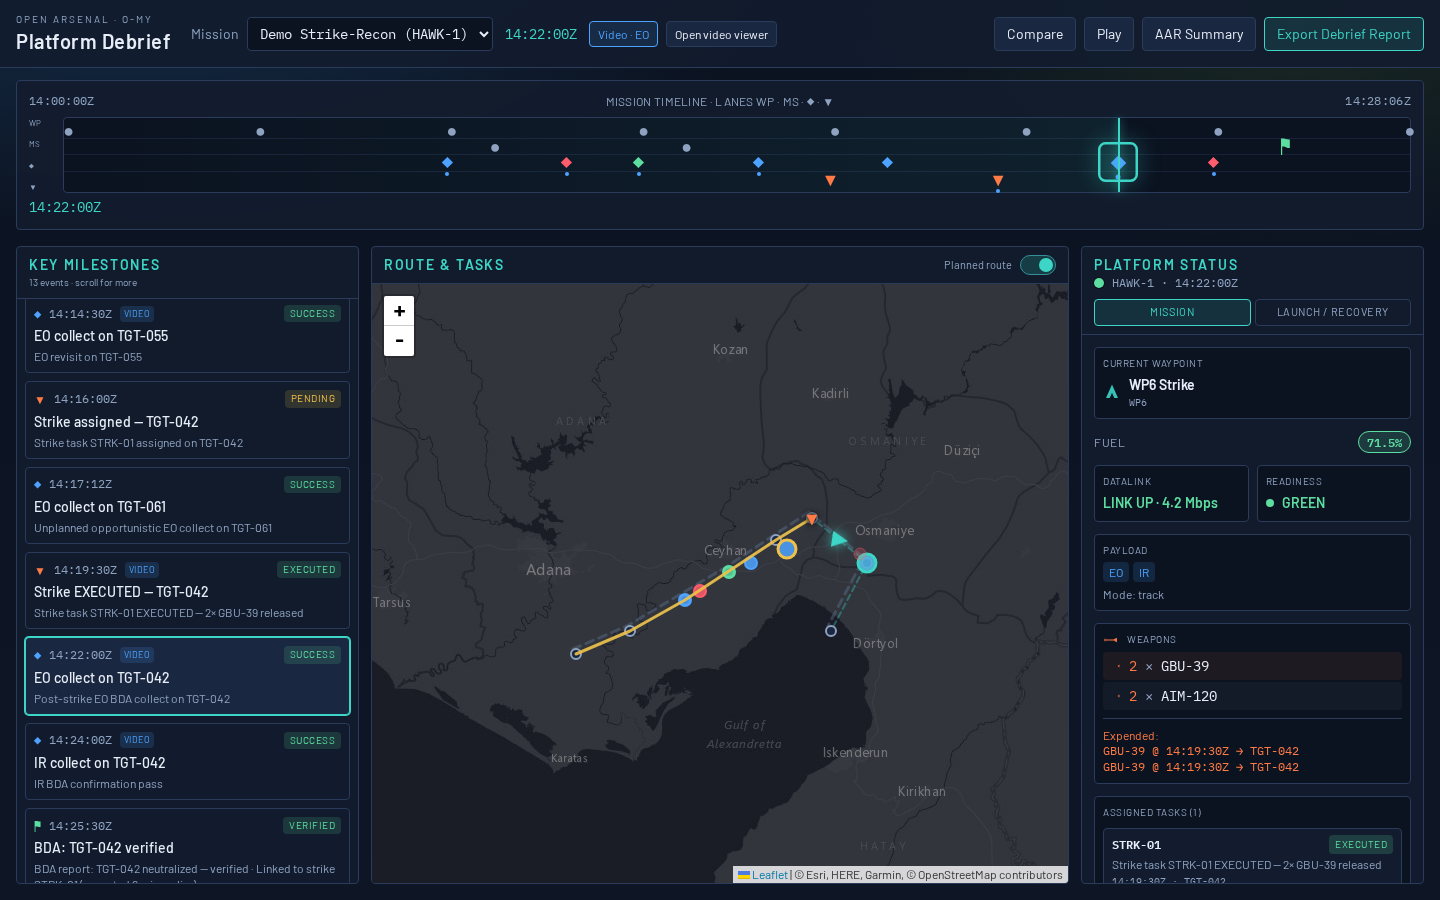
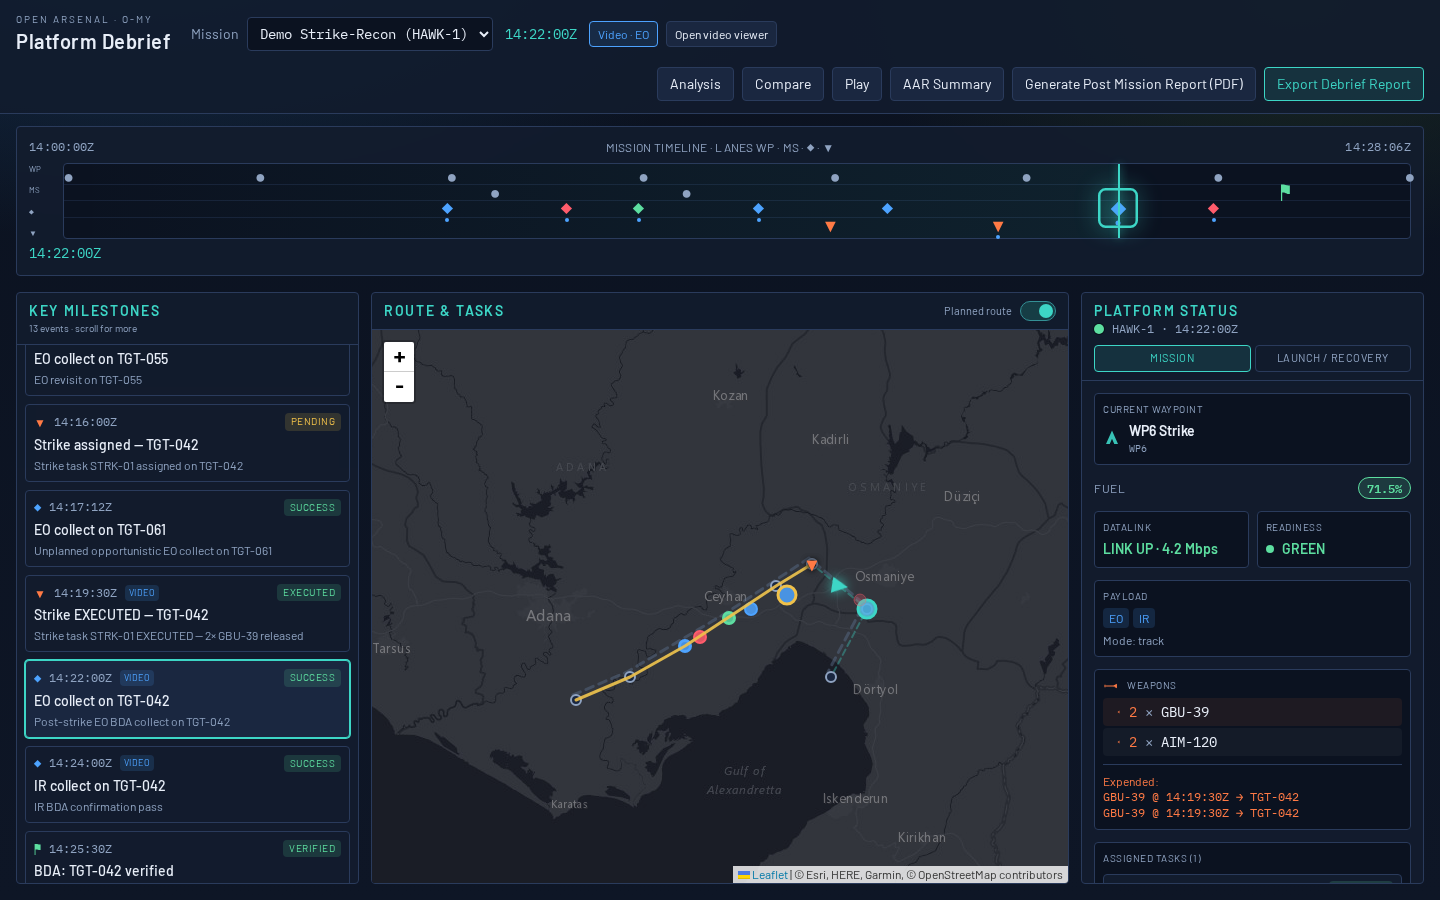
Verify analysis/PMR with screenshots; fix capture + FOV y-scale
Capture Analysis and three-page PMR shots (12–16), resolve Playwright
from frontend/, default DEMO_URL to :8920, and fix footprint y fallback.

diff --git a/frontend/src/lib/SensorFovPlot.svelte b/frontend/src/lib/SensorFovPlot.svelte
@@ -22,8 +22,11 @@
       .attr('height', height)
 
     const xKey = (d) => d.slant_range_nm ?? d.ground_range_nm ?? 0
-    const yKey = (d) =>
-      d.footprint_diameter_m ?? (d.footprint_area_km2 ?? 0) * 1000 ?? (d.cone_angle_deg ?? 0) * 40
+    const yKey = (d) => {
+      if (d.footprint_diameter_m != null) return d.footprint_diameter_m
+      if (d.footprint_area_km2 != null) return d.footprint_area_km2 * 1000
+      return (d.cone_angle_deg ?? 0) * 40
+    }
 
     const x = d3.scaleLinear().domain(d3.extent(points, xKey)).nice().range([0, innerW])
     const y = d3.scaleLinear().domain(d3.extent(points, yKey)).nice().range([innerH, 0])

diff --git a/openspec/changes/add-sensor-plots-and-pdf-report/verification.md b/openspec/changes/add-sensor-plots-and-pdf-report/verification.md
@@ -2,9 +2,9 @@
 
 | Scenario (Gherkin / spec) | Evidence |
 | --- | --- |
-| Sensor FOV vs range plot in UI | `SensorFovPlot.svelte`; manual Analysis mode on demo mission |
-| Weapons release vs LAR | `WeaponsLarPlot.svelte`; `/api/analysis/weapons-lar` test |
-| Sensor state multi-panel | `SensorStatePanels.svelte`; demo `sensorStatus` rows |
-| PMR 3-page structure | `/api/report/pmr` HTML; print preview Page 1–3 headings |
-| Summary rollups | `test_summary` + analysis fields in response |
-| Regression | `make test` green |
+| Sensor FOV vs range plot in UI | `docs/screenshots/12-analysis-fov-lar.png` — 7/7 collects, scatter + LAR |
+| Weapons release vs LAR | API smoke `1/1 in_lar`; screenshot 12 LAR envelope |
+| Sensor state multi-panel | `docs/screenshots/13-analysis-sensor-telemetry.png` — fuel + datalink dip |
+| PMR 3-page structure | `14`–`16` screenshots; `/api/report/pmr` headings verified |
+| Summary rollups | `test_summary_analysis_rollups` |
+| Regression | `make test` — 20 passed (2026-11-26) |
